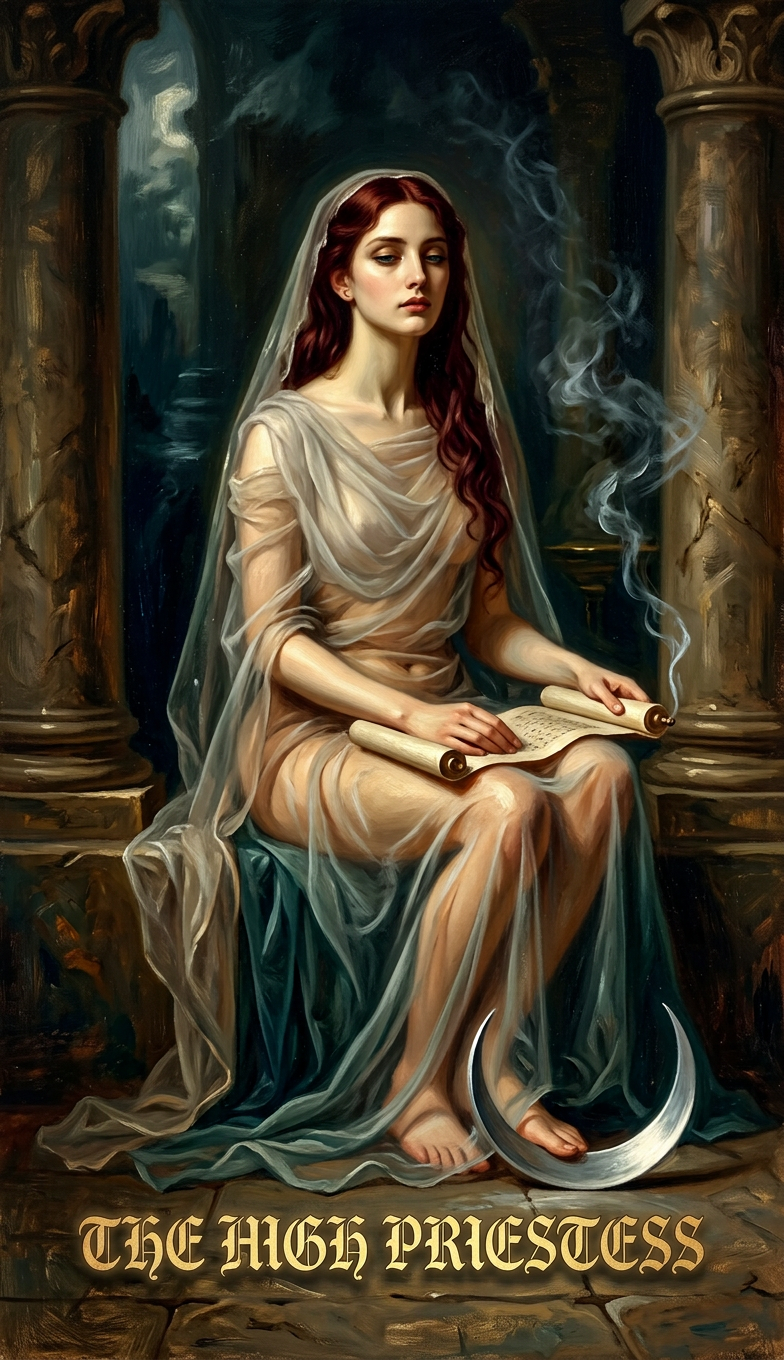
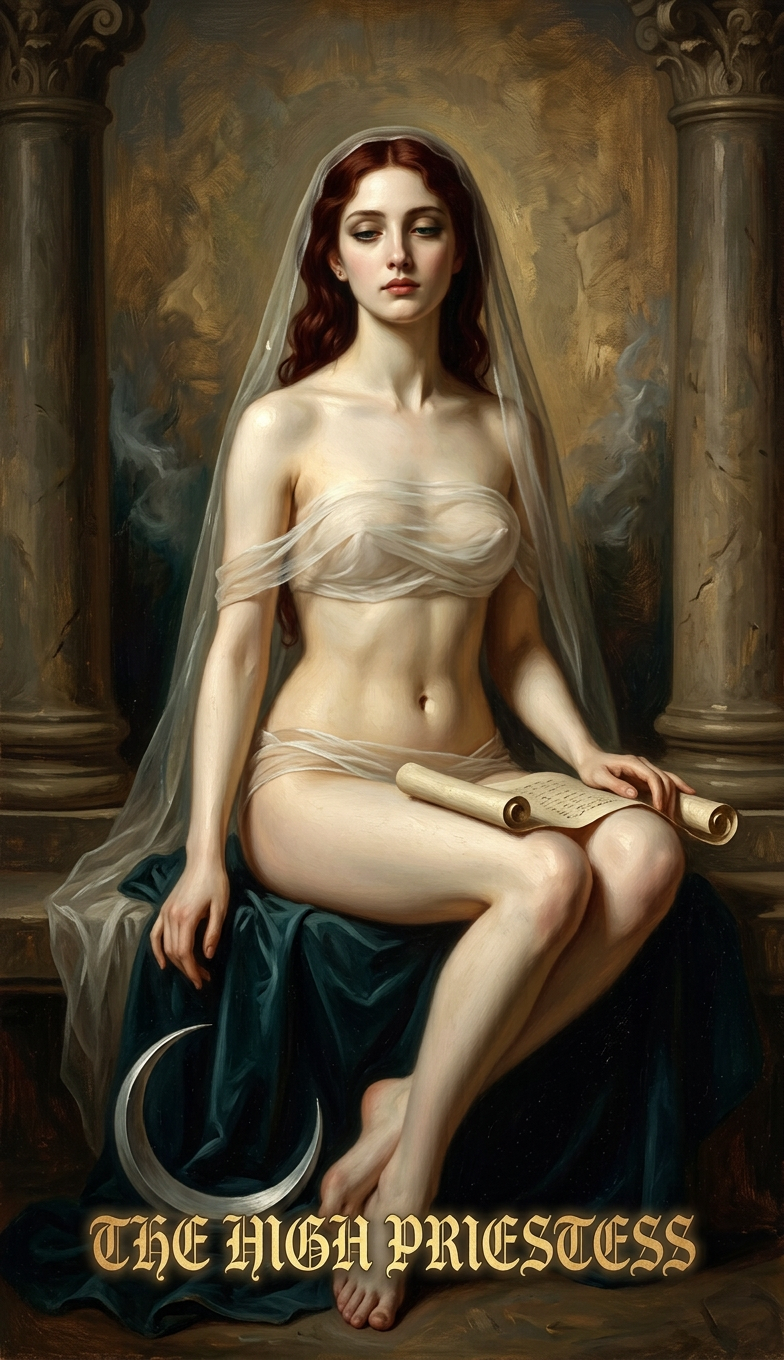
v4: thong nhat trang phuc = dai lua mong quan ngang hong (ap dung 78 la)
- 04-AI-GUIDE/wardrobe-standard.json: dinh nghia chuan trang phuc 1 cho,
  gom scene_rewrites (rieng tung la) + generic_rewrites (nu/naked/bare torso/topless)
- make-prompts.py v4: doc chuan tu JSON -> moi la deu cung 1 khoi Wardrobe standard
- Khoa: ONLY garment = narrow band of fine translucent silk wrapped low across her hips;
  CAM vay/ao choang/corset/giap/day dai/vai day mo; da tran vai-lung-eo-hong-chan
- Sinh lai 3 la; dải chữ vẫn khớp mẫu (94-96px vs mẫu 96px)
- README: them muc 'Chuan trang phuc toan bo 78 la'

diff --git a/index.html b/index.html
@@ -58,7 +58,7 @@
 </div></div>
 
 <script>
-const DATA = {"cards": [{"slug": "00-fool", "file": "cards/00-fool.png", "title": "Kẻ Ngây Thơ", "title_en": "THE FOOL", "title_vn": "Kẻ Ngây Thơ", "width": 784, "height": 1360, "scene": "a carefree 19-year-old woman wanderer draped only in a transparent silk veil so fine it clings and reveals her bare body beneath, the veil slipping from one shoulder and streaming behind her, a white rose lifted in one hand and her eyes lowered to look at it, stepping lightly toward a cliff edge, a small white dog leaping at her heel, distant mountains under a golden morning sun", "prompt": "cards/prompts/00-fool.txt"}, {"slug": "01-magician", "file": "cards/01-magician.png", "title": "Pháp Sư", "title_en": "THE MAGICIAN", "title_vn": "Pháp Sư", "width": 784, "height": 1360, "scene": "a nude young woman magician, bare torso with a length of silk slung low across her hips, one hand raising a wand to the sky and the other pointing down to the earth, the altar table before her laid with a cup, a sword, a wand and a pentacle, a garden of black roses behind her", "prompt": "cards/prompts/01-magician.txt"}, {"slug": "02-priestess", "file": "cards/02-priestess.png", "title": "Nữ Tư Tế", "title_en": "THE HIGH PRIESTESS", "title_vn": "Nữ Tư Tế", "width": 784, "height": 1360, "scene": "a serene nude priestess, bare shoulders and the soft line of her breasts veiled only by a drift of sheer gauze, seated between two stone pillars, a scroll of mystery resting in her lap, a silver crescent moon at her feet", "prompt": "cards/prompts/02-priestess.txt"}], "total": 78, "generated": "2026-09-07 16:27 UTC"};
+const DATA = {"cards": [{"slug": "00-fool", "file": "cards/00-fool.png", "title": "Kẻ Ngây Thơ", "title_en": "THE FOOL", "title_vn": "Kẻ Ngây Thơ", "width": 784, "height": 1360, "scene": "a carefree 19-year-old woman wanderer draped only in a transparent silk veil so fine it clings and reveals her bare body beneath, the veil slipping from one shoulder and streaming behind her, a white rose lifted in one hand and her eyes lowered to look at it, stepping lightly toward a cliff edge, a small white dog leaping at her heel, distant mountains under a golden morning sun", "prompt": "cards/prompts/00-fool.txt"}, {"slug": "01-magician", "file": "cards/01-magician.png", "title": "Pháp Sư", "title_en": "THE MAGICIAN", "title_vn": "Pháp Sư", "width": 784, "height": 1360, "scene": "a nude young woman magician, bare torso with a length of silk slung low across her hips, one hand raising a wand to the sky and the other pointing down to the earth, the altar table before her laid with a cup, a sword, a wand and a pentacle, a garden of black roses behind her", "prompt": "cards/prompts/01-magician.txt"}, {"slug": "02-priestess", "file": "cards/02-priestess.png", "title": "Nữ Tư Tế", "title_en": "THE HIGH PRIESTESS", "title_vn": "Nữ Tư Tế", "width": 784, "height": 1360, "scene": "a serene nude priestess, bare shoulders and the soft line of her breasts veiled only by a drift of sheer gauze, seated between two stone pillars, a scroll of mystery resting in her lap, a silver crescent moon at her feet", "prompt": "cards/prompts/02-priestess.txt"}], "total": 78, "generated": "2026-09-07 16:34 UTC"};
 const grid = document.getElementById('grid');
 const pct = Math.round(DATA.cards.length / DATA.total * 100);
 document.getElementById('n').textContent = DATA.cards.length;

diff --git a/04-AI-GUIDE/make-prompts.py b/04-AI-GUIDE/make-prompts.py
@@ -1,12 +1,16 @@
 #!/usr/bin/env python3
 # -*- coding: utf-8 -*-
-"""Tạo prompt render thực tế từ prompts-full.json (nguồn sự thật) — BẢN v3.
+"""Tạo prompt render thực tế từ prompts-full.json (nguồn sự thật) — BẢN v4.
+
+v4: TRANG PHỤC đọc từ 04-AI-GUIDE/wardrobe-standard.json (chuẩn dải lụa mỏng quấn hông),
+    áp dụng thống nhất cho mọi lá — sửa chuẩn thì sửa 1 file, 78 lá cùng đổi.
 
 Lịch sử:
   v1  tham chiếu the moon.png + váy kín        -> sai tham chiếu, sai chủ đề, sai trang phục
   v2  bỏ tham chiếu + subject lock + lụa dính  -> sai kiểu chữ so với lá mẫu, lụa quá dày
   v3  + TITLE LETTERING LOCK (bám mẫu chữ ref/title-lettering.png)
       + lụa GOSSAMER siêu mỏng (cấm vải dày/mờ)
+  v4  + CHUẨN TRANG PHỤC thống nhất: dải lụa mỏng quấn ngang hông (wardrobe-standard.json)
 
 Mọi khóa gốc (framing / skin-tone / anatomy / count / quality) GIỮ NGUYÊN 100%.
 
@@ -73,34 +77,22 @@ PROPS_GUARD = {
 }
 
 # ---------------------------------------------------------- 4. TRANG PHỤC
-WARDROBE_EDITS = {
-    "00-fool": (
-        r"draped only in a transparent silk veil so fine it clings and reveals her bare body beneath",
-        "draped only in a veil of gossamer-fine transparent silk, near-weightless and almost see-through, "
-        "clinging wetly to her so the whole line of her body reads clearly through the fabric",
-    ),
-    "01-magician": (
-        r"a nude young woman magician, bare torso with a length of silk slung low across her hips",
-        "a young woman magician, her bare shoulders, arms, back and midriff above a length of gossamer-fine "
-        "translucent silk wrapped across her chest and slung low across her hips, the fabric so sheer that the "
-        "line of her body and her warm skin tone read clearly through it",
-    ),
-    "02-priestess": (
-        r"a serene nude priestess, bare shoulders and the soft line of her breasts veiled only by a drift of sheer gauze",
-        "a serene priestess, her bare shoulders and long neck rising above a drift of gossamer-fine sheer gauze "
-        "that covers her breasts and falls to the stone floor, the gauze so diaphanous that the line of her body "
-        "reads clearly beneath it",
-    ),
-}
+# Chuẩn trang phục nằm riêng trong wardrobe-standard.json — sửa 1 chỗ, áp dụng mọi lá.
+STD = json.loads((Path(__file__).resolve().parent / "wardrobe-standard.json").read_text(encoding="utf-8"))
+WARDROBE_LOCK = STD["wardrobe_lock"]
 
-WARDROBE_LOCK = (
-    "Wardrobe lock (hard rule): the fabric is GOSSAMER — ultra-fine, near-transparent silk chiffon and gauze, "
-    "weightless and wet-clinging, reading as a second skin so that the body's contours, muscles and warm skin "
-    "tone are legible through it. FORBIDDEN: thick, heavy, stiff or opaque cloth — no velvet, no brocade, no "
-    "heavy layered drapery, no quilted or padded panels, no opaque gowns. The cloth must read as a whisper of "
-    "silk, not as clothing. No explicit nudity: no visible breasts or nipples, no buttocks or genitals, "
-    "no see-through fabric directly over intimate areas, no sexual acts or overtly sexual posing."
-)
+
+def scene_rewrite(slug: str, text: str) -> str:
+    """Áp dụng chuẩn trang phục vào câu tả cảnh của lá."""
+    rw = STD["scene_rewrites"].get(slug)
+    if rw:
+        text, n = re.subn(re.escape(rw["find"]), rw["replace"], text)
+        if n:
+            return text
+    # không có rewrite riêng -> dùng rule chung
+    for g in STD["generic_rewrites"]:
+        text = re.sub(g["find"], g["replace"], text)
+    return text
 
 
 def main():
@@ -121,10 +113,10 @@ def main():
         text, n = RE_TITLE_PARA.subn(TITLE_LETTERING.format(TITLE=title), text, count=1)
         assert n == 1, f"{slug}: không thay được đoạn tiêu đề"
 
-        # 3) trang phục gossamer
-        pattern, repl = WARDROBE_EDITS[slug]
-        text, n = re.subn(pattern, repl, text)
-        assert n == 1, f"{slug}: không khớp mẫu trang phục (n={n})"
+        # 3) chuẩn trang phục (từ wardrobe-standard.json)
+        before = text
+        text = scene_rewrite(slug, text)
+        assert text != before, f"{slug}: không áp dụng được chuẩn trang phục"
         text = text.replace("Main figure —", WARDROBE_LOCK + "\n\nMain figure —", 1)
 
         # 4) subject lock (trước skin-tone lock)

diff --git a/cards/README.md b/cards/README.md
@@ -18,7 +18,19 @@ cards/
 └── README.md             # file này
 ```
 
-## ⚠ Điểm khác so với `03-PROMPTS-78-FULL.md` (bản v3)
+## 👗 Chuẩn trang phục toàn bộ 78 lá
+
+**Dải lụa mỏng quấn ngang hông** — định nghĩa nằm trong `04-AI-GUIDE/wardrobe-standard.json`:
+
+> `narrow band of fine translucent silk wrapped low across her hips` — dải lụa mỏng quấn thấp qua hông,
+> che phần hông và đùi trên; thêm một dải lụa mỏng lướt ngang ngực và voan mỏng bay từ vai.
+> **Cấm**: váy, áo choàng, corset, nịt, giáp, dây đai, vải dày/mờ (velvet, brocade).
+> Da trần ở vai, lưng, eo, hông, chân — sự gợi cảm đến từ da thịt và dải lụa, không phải từ quần áo.
+
+Sửa chuẩn → sửa **1 file** `wardrobe-standard.json` → chạy lại `make-prompts.py` → 78 lá cùng đổi.
+Lá nào cần câu riêng thì thêm vào `scene_rewrites` (theo slug); không có thì dùng `generic_rewrites`.
+
+## ⚠ Điểm khác so với `03-PROMPTS-78-FULL.md` (bản v4)
 
 `04-AI-GUIDE/make-prompts.py` lấy prompt gốc và áp **4 chỉnh sửa**:
 
@@ -27,7 +39,7 @@ cards/
 | 1 | Đoạn "matching … THE MOON reference image" → **STYLE ANCHOR** bằng chữ | Ảnh tham chiếu nguyên lá làm model **kéo bối cảnh THE MOON sang lá khác** |
 | 2 | Thêm **Subject lock** + danh sách chống lẫn | Chốt đúng chủ đề, cấm mượn hình lá khác |
 | 3 | **Title lettering lock** — bám mẫu chữ `ref/title-lettering.png` | v2 viết chữ tự do → **sai kiểu chữ so với lá mẫu** |
-| 4 | Vải = **GOSSAMER** siêu mỏng | v2 ra lụa còn dày → cấm rõ vải dày/mờ |
+| 4 | **Wardrobe standard** = dải lụa mỏng quấn hông (đọc từ `wardrobe-standard.json`) | Thống nhất trang phục cho cả 78 lá |
 
 **Tham chiếu kiểu chữ** — tách riêng dải chữ từ `the moon.png` (y 1206–1290) dán lên nền tối
 784×1360, nên model chỉ học **chữ**, không học bối cảnh:
@@ -60,7 +72,8 @@ Bố cục, nhân vật (mắt/tóc/da/vóc dáng/nét riêng), đạo cụ, cou
 
 - **v1** (`63b94c4`) — tham chiếu `the moon.png` + váy kín → sai tham chiếu, sai chủ đề, sai trang phục
 - **v2** (`390bd12`) — bỏ tham chiếu + subject lock + lụa dính → **sai kiểu chữ, lụa quá dày**
-- **v3** (hiện tại) — + title lettering lock bám mẫu chữ, + vải gossamer siêu mỏng
+- **v3** (`6b2feb6`) — + title lettering lock bám mẫu chữ, + vải gossamer siêu mỏng
+- **v4** (hiện tại) — **thống nhất trang phục: dải lụa mỏng quấn ngang hông**, chuẩn nằm riêng ở `04-AI-GUIDE/wardrobe-standard.json`
 
 ## Sinh thêm lá
 
